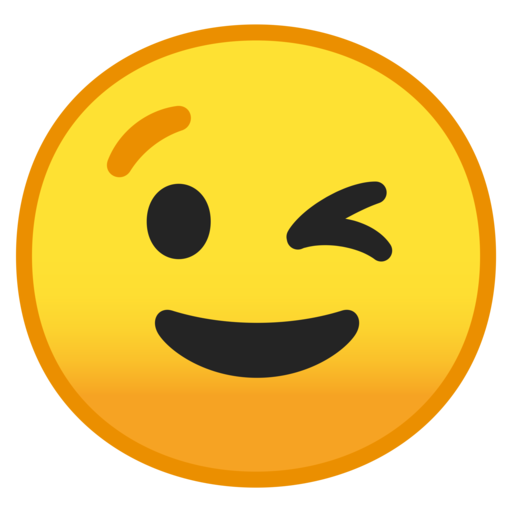
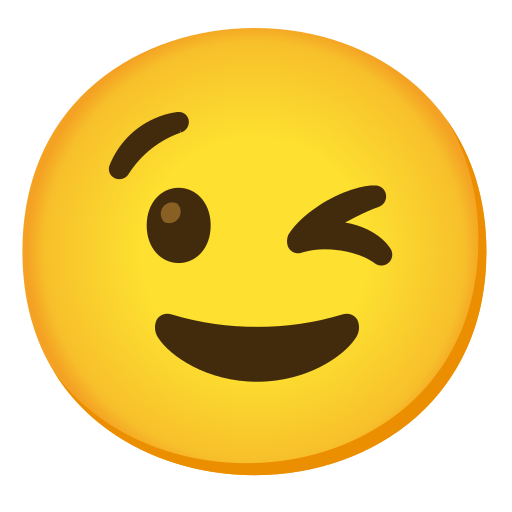
more images and scale on value

diff --git a/Source/gananciaSimplePluginEditor.h b/Source/gananciaSimplePluginEditor.h
@@ -34,23 +34,38 @@ public:
         auto fill = slider.findColour(Slider::rotarySliderFillColourId);
         juce::Image background;
         juce::Image emoji;
+        juce::Image emoji2;
 
         auto bounds = Rectangle<int>(x, y, width, height).toFloat();
         auto trasformer = AffineTransform::AffineTransform().scaled(0.8f);
-
+        auto scaling_1 = 1.0;
 
         //background = juce::ImageCache::getFromMemory(BinaryData::background_jpg, BinaryData::background_jpgSize);
         //g.drawImageWithin(background, 0, 0, bounds.getWidth(), bounds.getHeight(), juce::RectanglePlacement::stretchToFit);
 
         emoji = juce::ImageCache::getFromMemory(BinaryData::emoji_png, BinaryData::emoji_pngSize);
+        emoji2 = juce::ImageCache::getFromMemory(BinaryData::emoji_png, BinaryData::emoji_pngSize);
+
         //g.drawImageWithin(emoji, 0, 0, bounds.getWidth(), bounds.getHeight(), juce::RectanglePlacement::stretchToFit);
         float actual_val = slider.getValue();
-        g.drawImageTransformed(emoji, trasformer.rotated(actual_val*4, (512.0f*0.8f)/2, (512.0f * 0.8f)/2));
+
+        /* Si el valor de slider es >0.50 entonces scalar imagen a cierto valor,  */
+        if (actual_val > 0.5) {
+            scaling_1 = 0.2;
+        }
+        else {
+            scaling_1 = 1.0;
+        }
+
+        // rotacion de la imagen, teniendo en cuenta el valor del slider y seteando puntos centrales de pivot
+        g.drawImageTransformed(emoji, trasformer.rotated(actual_val*4, (512.0f*0.8f)/2, (512.0f * 0.8f)/2).scaled(scaling_1));
+        g.drawImageTransformed(emoji2, trasformer.rotated(actual_val * 4, (512.0f * 0.8f) / 2, (512.0f * 0.8f) / 2).scaled(0.4));
+        emoji2.desaturate();
         //g.drawImageTransformed(emoji, trasformer);
         
         //emoji.desaturate();
-        //emoji.multiplyAllAlphas(0.5);
-
+       // emoji.multiplyAllAlphas(0.5);
+        DBG(slider.getValue());
 
         auto radius = jmin(bounds.getWidth(), bounds.getHeight()) / 2.0f;
         auto toAngle = rotaryStartAngle + sliderPos * (rotaryEndAngle - rotaryStartAngle);

diff --git a/JuceLibraryCode/AppConfig.h b/JuceLibraryCode/AppConfig.h
@@ -38,7 +38,7 @@
 // BEGIN SECTION A
 
 #ifndef JUCE_DISPLAY_SPLASH_SCREEN
- #define JUCE_DISPLAY_SPLASH_SCREEN 0
+ #define JUCE_DISPLAY_SPLASH_SCREEN 1
 #endif
 
 // END SECTION A
